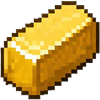
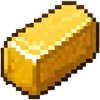
обновили изображения

diff --git a/inventery.py b/inventery.py
@@ -24,6 +24,7 @@ class Inventory:
             item_path = IMAGE_MAP.get(item.get("name"))
             if item_path:
                 image = pygame.image.load(item_path)
+                image = pygame.transform.smoothscale(image,(20,20))
             else:
                 image = font.render('none', True, (255, 255, 255))
             self.items[index]['image'] = image
@@ -45,7 +46,7 @@ class Inventory:
 
             icone_img = item.get('image')
             icone_img_rect = icone_img.get_rect()
-            icone_img_rect.centery = text_img_rect.centery
+            icone_img_rect.centery = text_img_rect.centery+2
             icone_img_rect.x = self.rect.x + 5
             screen.blit(icone_img, icone_img_rect)
 
